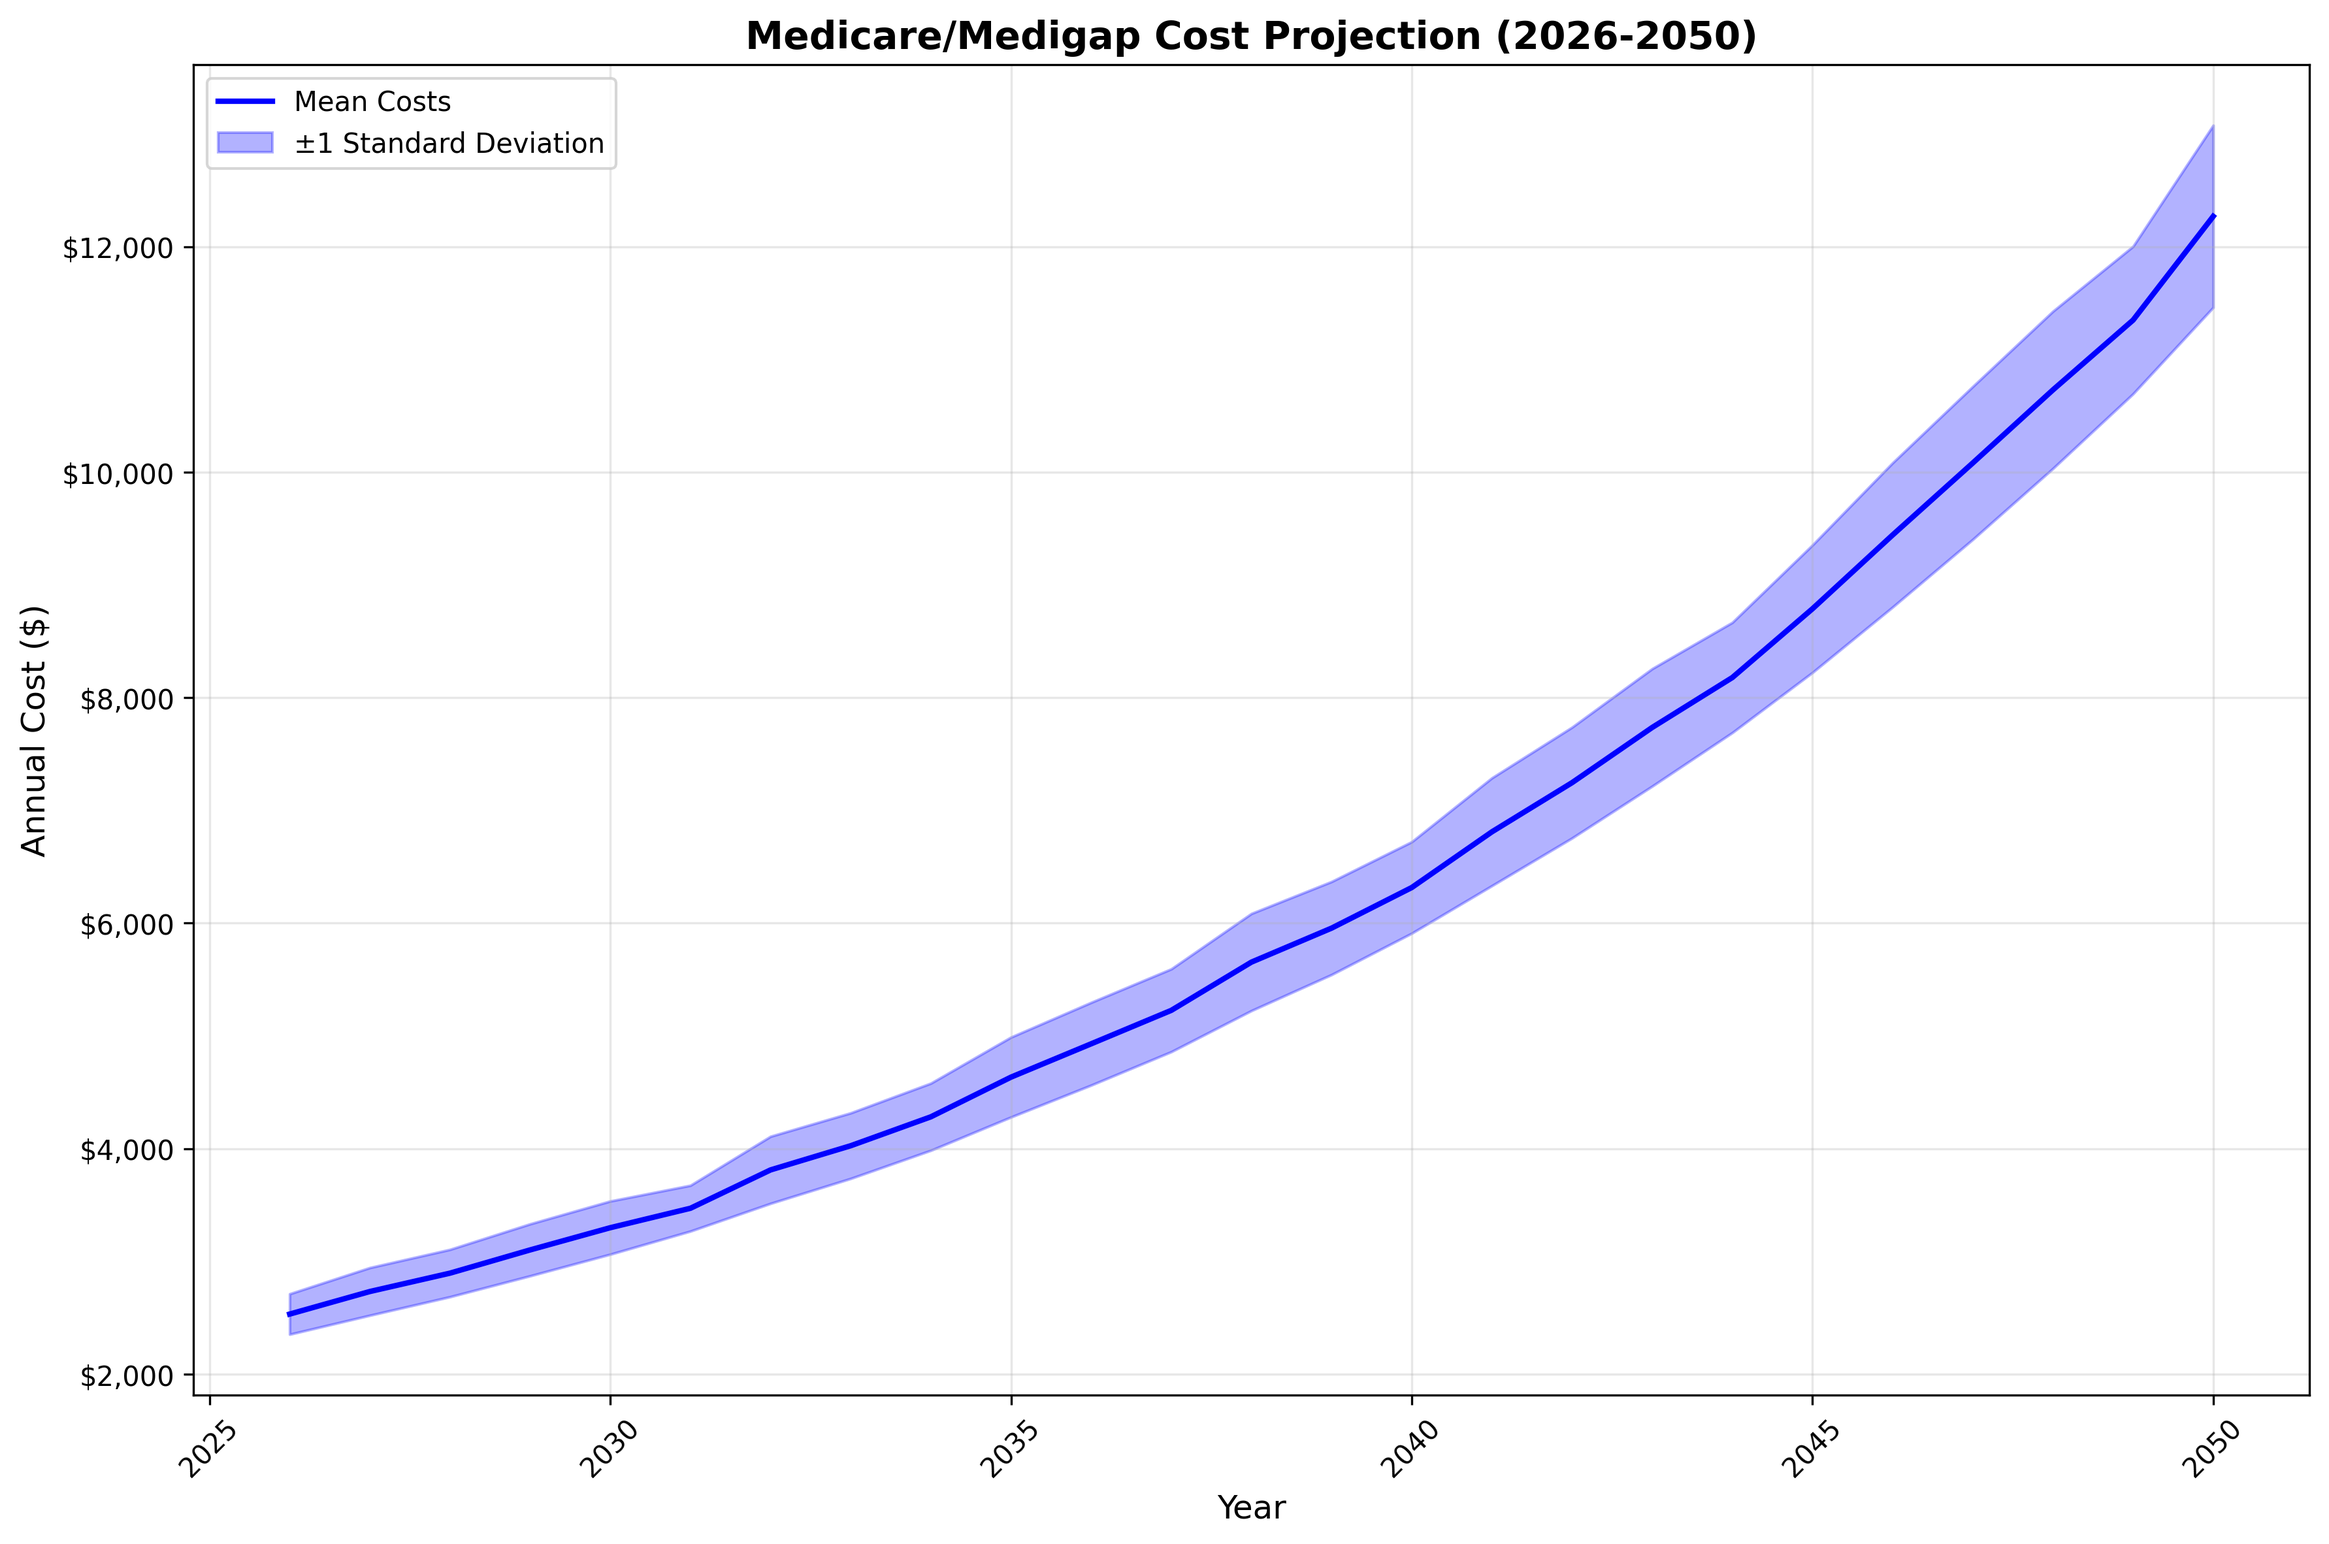
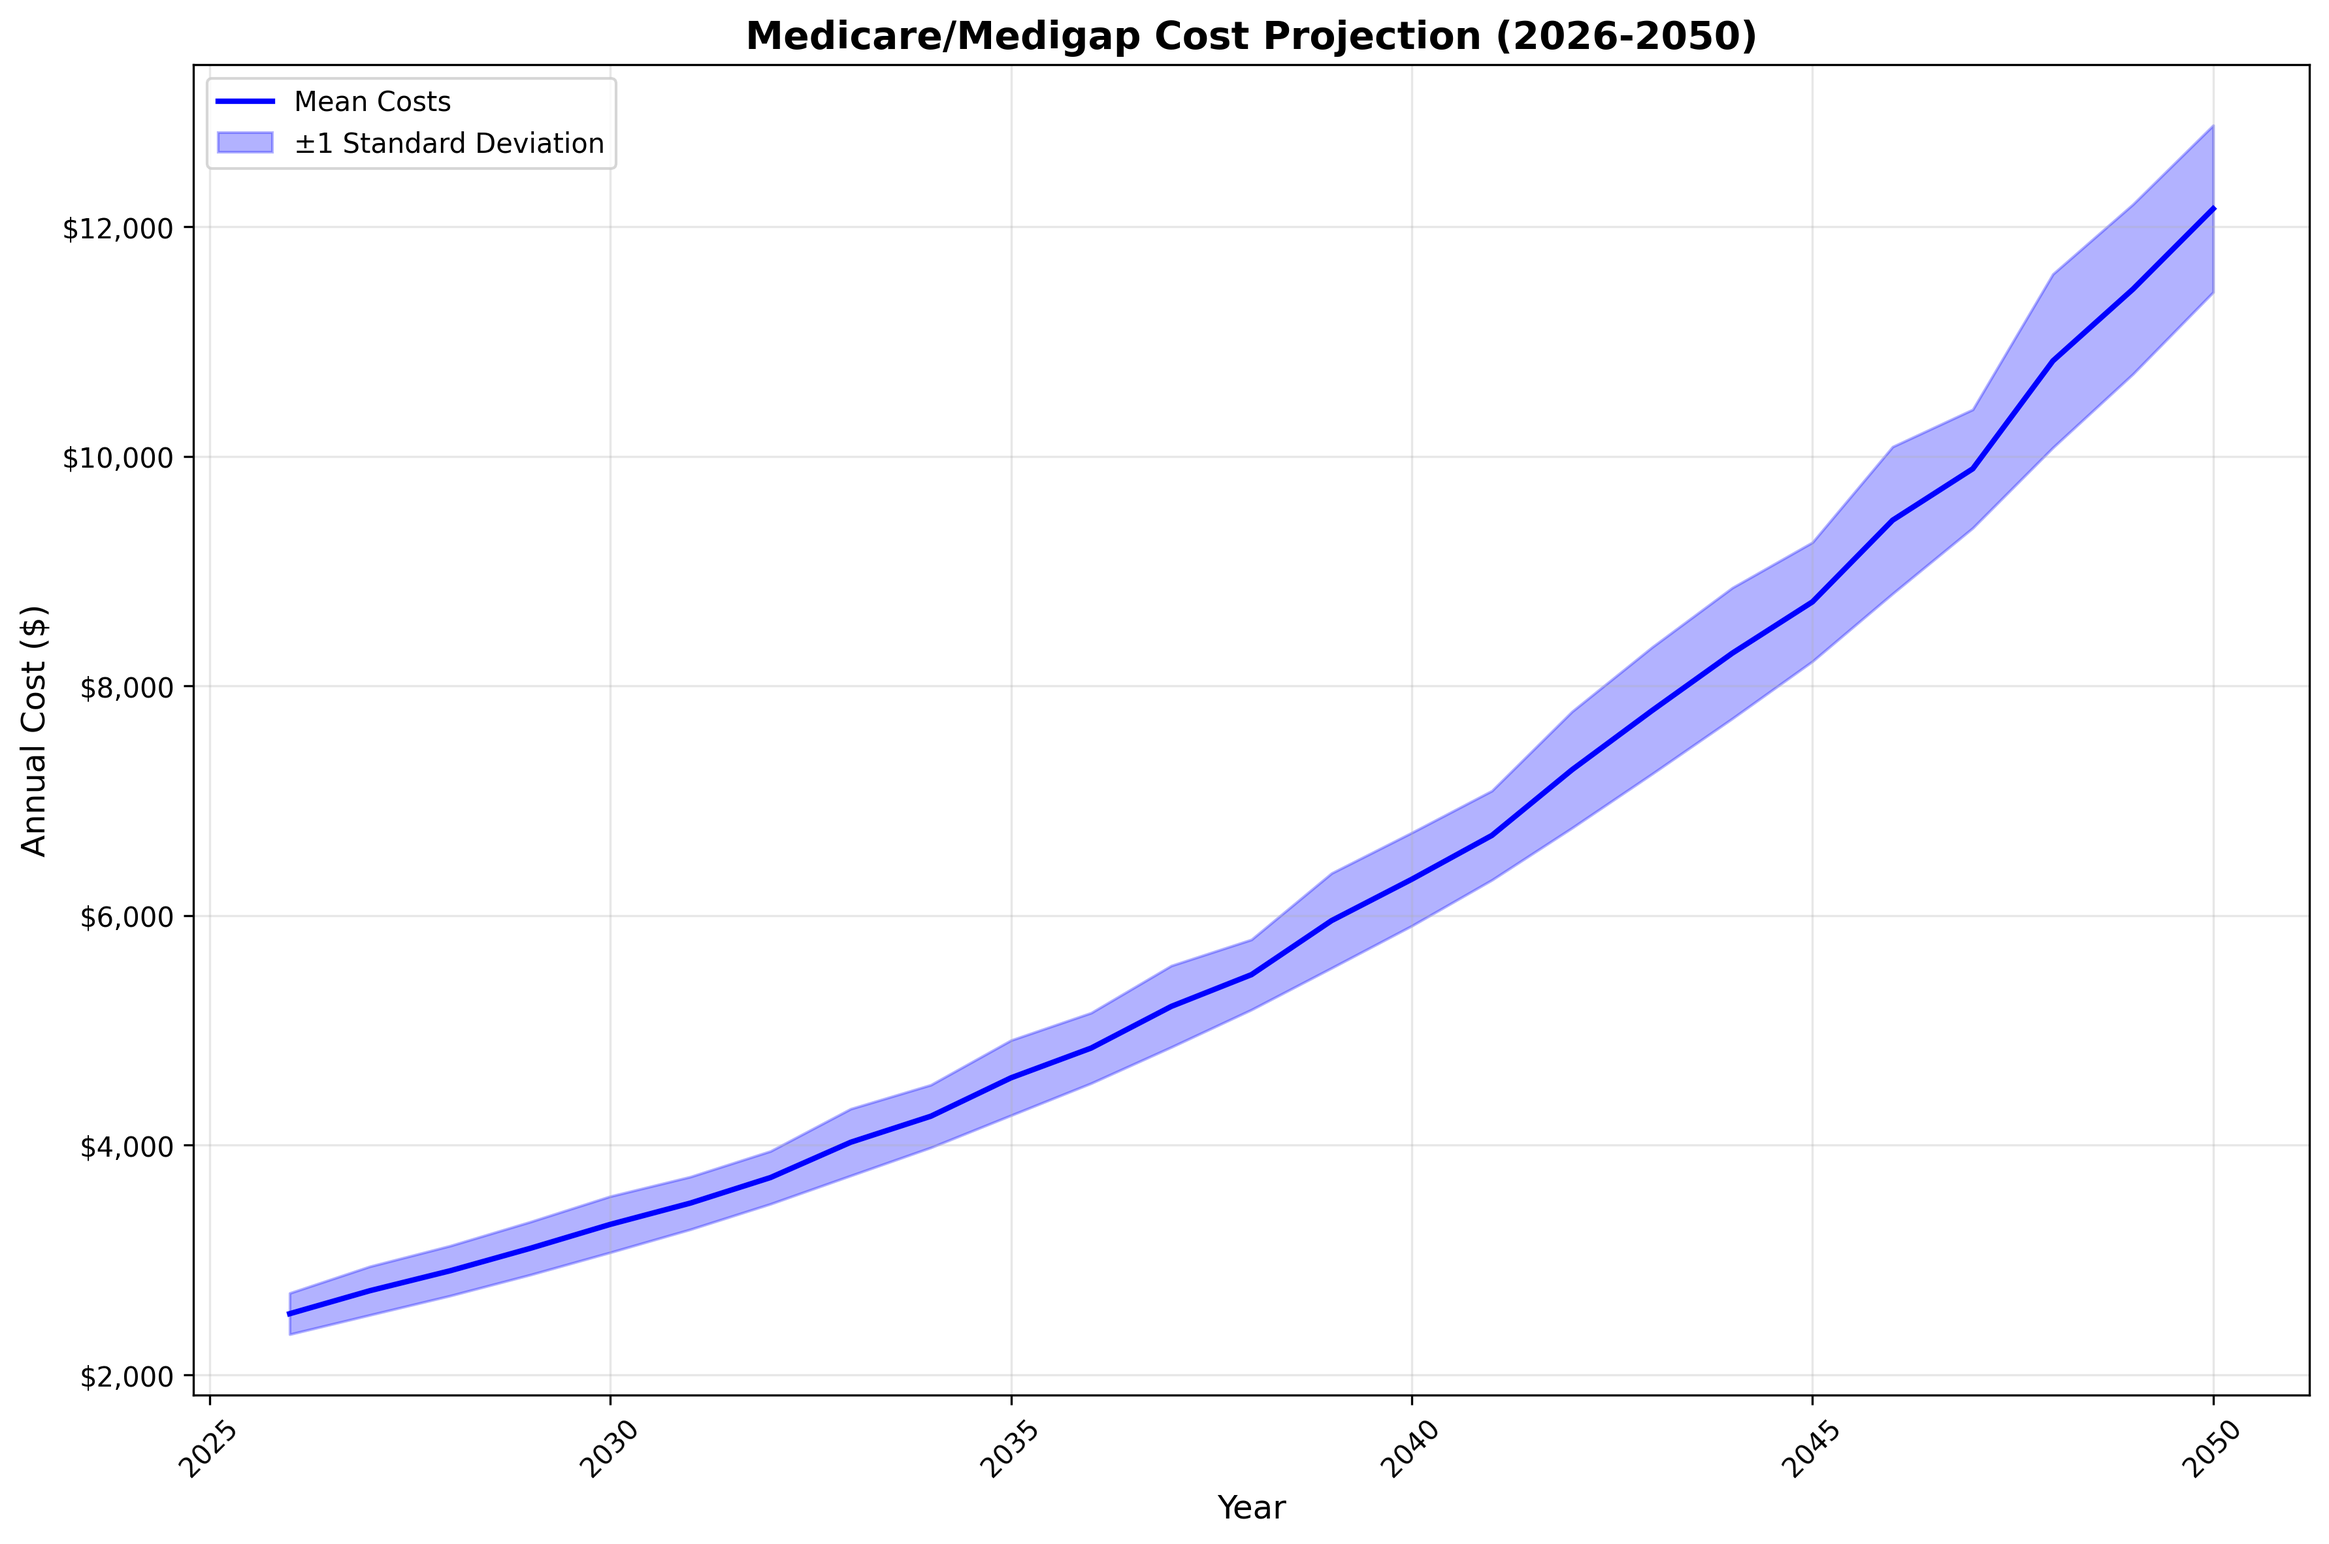
more ui tweaks

diff --git a/app.py b/app.py
@@ -2,6 +2,7 @@
 
 import sys
 import os
+from datetime import date
 import streamlit as st
 import plotly.graph_objects as go
 import plotly.express as px
@@ -123,11 +124,12 @@ def create_parameter_inputs() -> SimulationParameters:
         help="Number of years to simulate"
     )
     
+    current_year = date.today().year
     start_year = st.sidebar.number_input(
         "Start Year",
-        min_value=2020,
-        max_value=2030,
-        value=2026,
+        min_value=current_year - 10,
+        max_value=current_year + 10,
+        value=current_year,
         step=1,
         help="Starting year for simulation"
     )
@@ -135,8 +137,8 @@ def create_parameter_inputs() -> SimulationParameters:
     # Number of simulations
     num_simulations = st.sidebar.selectbox(
         "Number of Simulations",
-        options=[100, 500, 1000, 2000, 5000],
-        index=2,
+        options=[100, 500, 1000, 2500, 5000],
+        index=3,
         help="Number of Monte Carlo simulations to run"
     )
     
@@ -315,12 +317,12 @@ def display_simulation_results(results: Dict[str, Any]) -> None:
         results['statistics']['mean_costs'], 
         results['statistics']['std_costs']
     )
-    st.plotly_chart(cost_chart, width='stretch')
+    st.plotly_chart(cost_chart, use_container_width=True)
     
     # Lifetime cost histogram
     st.subheader("📊 Lifetime Cost Distribution")
     hist_chart = create_lifetime_cost_histogram(lifetime_costs)
-    st.plotly_chart(hist_chart, width='stretch')
+    st.plotly_chart(hist_chart, use_container_width=True)
     
     # Percentile analysis
     st.subheader("📊 Cost Percentiles")
@@ -357,7 +359,7 @@ def main():
     params, num_simulations = create_parameter_inputs()
     
     # Run simulation button
-    if st.sidebar.button("🚀 Run Simulation", type="primary"):
+    if st.sidebar.button("🚀 Run Full Simulation", type="primary"):
         with st.spinner(f"Running {num_simulations:,} Monte Carlo simulations..."):
             # Create simulation engine
             simulation = MonteCarloSimulation(params)

diff --git a/gui.py b/gui.py
@@ -2,6 +2,7 @@
 
 import sys
 import os
+from datetime import date
 import tkinter as tk
 from tkinter import ttk, filedialog
 import matplotlib.pyplot as plt
@@ -309,7 +310,7 @@ class MedicareSimulatorGUI:
         
         # Number of simulations
         ttk.Label(params_frame, text="Number of Simulations:").grid(row=0, column=0, sticky=tk.W, padx=5, pady=5)
-        self.num_simulations_var = tk.StringVar(value="1000")
+        self.num_simulations_var = tk.StringVar(value="2500")
         num_sim_entry = ttk.Entry(params_frame, textvariable=self.num_simulations_var, width=10)
         num_sim_entry.grid(row=0, column=1, sticky=tk.W, padx=5, pady=5)
         
@@ -345,7 +346,7 @@ class MedicareSimulatorGUI:
         
         # Start year
         ttk.Label(params_frame, text="Start Year:").grid(row=1, column=2, sticky=tk.W, padx=5, pady=5)
-        self.start_year_var = tk.StringVar(value="2026")
+        self.start_year_var = tk.StringVar(value=str(date.today().year))
         start_year_entry = ttk.Entry(params_frame, textvariable=self.start_year_var, width=10)
         start_year_entry.grid(row=1, column=3, sticky=tk.W, padx=5, pady=5)
         
@@ -496,7 +497,7 @@ class MedicareSimulatorGUI:
             
             # Run comparison
             simulation1 = PlanMonteCarloSimulation(plan1)
-            comparison = simulation1.compare_plans(plan2, 1000)
+            comparison = simulation1.compare_plans(plan2, 2500)
             
             # Display results
             results = f"Plan Comparison Results\n"

diff --git a/pages/1_Single_Plan_Simulator.py b/pages/1_Single_Plan_Simulator.py
@@ -2,6 +2,7 @@
 
 import sys
 import os
+from datetime import date
 import streamlit as st
 import plotly.graph_objects as go
 import plotly.express as px
@@ -44,7 +45,7 @@ def create_plan_selection() -> tuple:
         "Number of Simulations",
         min_value=100,
         max_value=10000,
-        value=1000,
+        value=2500,
         step=100,
         help="Number of Monte Carlo simulations to run"
     )
@@ -58,11 +59,12 @@ def create_plan_selection() -> tuple:
         help="Number of years to simulate"
     )
     
+    current_year = date.today().year
     start_year = st.sidebar.number_input(
         "Start Year",
-        min_value=2020,
-        max_value=2030,
-        value=2026,
+        min_value=current_year - 10,
+        max_value=current_year + 10,
+        value=current_year,
         step=1,
         help="Starting year for simulation"
     )
@@ -423,7 +425,11 @@ def main():
         create_cost_comparison_table(plan)
         
         # Run simulation button
-        if st.button("🚀 Run Monte Carlo Simulation", type="primary"):
+        if st.sidebar.button(
+            "🚀 Run Plan Simulatiion",
+            type="primary",
+            width="stretch",
+        ):
             run_simulation_and_display_results(plan, num_simulations)
     
     # Footer

diff --git a/pages/2_Plan_Comparison.py b/pages/2_Plan_Comparison.py
@@ -2,6 +2,7 @@
 
 import sys
 import os
+from datetime import date
 import streamlit as st
 import plotly.graph_objects as go
 import plotly.express as px
@@ -51,7 +52,7 @@ def create_plan_comparison_interface():
         "Number of Simulations",
         min_value=100,
         max_value=10000,
-        value=1000,
+        value=2500,
         step=100,
         help="Number of Monte Carlo simulations to run"
     )
@@ -65,11 +66,12 @@ def create_plan_comparison_interface():
         help="Number of years to simulate"
     )
     
+    current_year = date.today().year
     start_year = st.sidebar.number_input(
         "Start Year",
-        min_value=2020,
-        max_value=2030,
-        value=2026,
+        min_value=current_year - 10,
+        max_value=current_year + 10,
+        value=current_year,
         step=1,
         help="Starting year for simulation"
     )
@@ -348,7 +350,11 @@ def main():
     create_comparison_chart(plan1, plan2)
     
     # Run comparison simulation button
-    if st.button("🚀 Run Comparison Simulation", type="primary"):
+    if st.sidebar.button(
+        "🚀 Run Comparison Simulation",
+        type="primary",
+        width="stretch",
+    ):
         run_comparison_simulation(plan1, plan2, num_simulations)
     
     # Footer

diff --git a/src/medigap/simulation/plan_monte_carlo.py b/src/medigap/simulation/plan_monte_carlo.py
@@ -132,11 +132,11 @@ class PlanMonteCarloSimulation:
         
         return lifetime_costs
 
-    def run_comprehensive_simulation(self, num_simulations: int = 1000) -> Dict[str, Any]:
+    def run_comprehensive_simulation(self, num_simulations: int = 2500) -> Dict[str, Any]:
         """Run a comprehensive simulation with statistics.
         
         Args:
-            num_simulations: Number of simulations to run (default: 1000)
+            num_simulations: Number of simulations to run (default: 2500)
             
         Returns:
             Dictionary containing all simulation results and statistics
@@ -158,7 +158,7 @@ class PlanMonteCarloSimulation:
             'plan_summary': self.calculator.get_plan_summary()
         }
 
-    def compare_plans(self, other_plan: Plan, num_simulations: int = 1000) -> Dict[str, Any]:
+    def compare_plans(self, other_plan: Plan, num_simulations: int = 2500) -> Dict[str, Any]:
         """Compare this plan with another plan.
         
         Args:

diff --git a/src/medigap/models/plans.py b/src/medigap/models/plans.py
@@ -1,5 +1,6 @@
 """Specific Medicare plan implementations."""
 
+from datetime import date
 from .plan import Plan
 
 
@@ -14,7 +15,7 @@ class PlanG(Plan):
         self,
         percent_sick: float = 0.20,
         simulation_years: int = 25,
-        start_year: int = 2026
+        start_year: int = date.today().year
     ) -> None:
         """Initialize Plan G with default parameters.
         
@@ -52,7 +53,7 @@ class PlanHDG(Plan):
         self,
         percent_sick: float = 0.20,
         simulation_years: int = 25,
-        start_year: int = 2026
+        start_year: int = date.today().year
     ) -> None:
         """Initialize Plan HDG with specified parameters.
         
@@ -94,7 +95,7 @@ class PlanN(Plan):
         self,
         percent_sick: float = 0.20,
         simulation_years: int = 25,
-        start_year: int = 2026
+        start_year: int = date.today().year
     ) -> None:
         """Initialize Plan N with specified parameters.
         

diff --git a/src/medigap/models/plan.py b/src/medigap/models/plan.py
@@ -1,5 +1,6 @@
 """Base Medicare plan class for different plan types."""
 
+from datetime import date
 from abc import ABC, abstractmethod
 from typing import Optional
 
@@ -24,7 +25,7 @@ class Plan(ABC):
         part_b_deductible_growth_rate: float = 0.06,
         percent_sick: float = 0.20,
         simulation_years: int = 25,
-        start_year: int = 2026,
+        start_year: int = date.today().year,
         # Specialist visit parameters (optional, defaults to None for plans without specialist visits)
         specialist_visits_per_year: Optional[int] = None,
         specialist_copay_2026: Optional[float] = None,

diff --git a/src/medigap/simulation/monte_carlo.py b/src/medigap/simulation/monte_carlo.py
@@ -132,11 +132,11 @@ class MonteCarloSimulation:
         
         return lifetime_costs
 
-    def run_comprehensive_simulation(self, num_simulations: int = 1000) -> Dict[str, Any]:
+    def run_comprehensive_simulation(self, num_simulations: int = 2500) -> Dict[str, Any]:
         """Run a comprehensive simulation with statistics.
         
         Args:
-            num_simulations: Number of simulations to run (default: 1000)
+            num_simulations: Number of simulations to run (default: 2500)
             
         Returns:
             Dictionary containing all simulation results and statistics

diff --git a/src/medigap/models/simulation_parameters.py b/src/medigap/models/simulation_parameters.py
@@ -1,5 +1,6 @@
 """Simulation parameters configuration class."""
 
+from datetime import date
 from typing import Optional
 
 
@@ -22,7 +23,7 @@ class SimulationParameters:
         part_b_deductible_growth_rate: float = 0.06,
         percent_sick: float = 0.20,
         simulation_years: int = 25,
-        start_year: int = 2026
+        start_year: int = date.today().year
     ) -> None:
         """Initialize simulation parameters with validation.
         

diff --git a/main.py b/main.py
@@ -38,7 +38,7 @@ def main() -> None:
     
     # Run comprehensive simulation
     print("Running Monte Carlo simulation...")
-    num_simulations = 1000
+    num_simulations = 2500
     results = simulation.run_comprehensive_simulation(num_simulations)
     
     # Display summary statistics

diff --git a/README.md b/README.md
@@ -120,7 +120,7 @@ uv run python main.py
 
 The CLI will:
 
-- Run 1,000 Monte Carlo simulations
+- Run 2,500 Monte Carlo simulations
 - Display comprehensive cost statistics table with minimum, maximum, and median values
 - Show detailed year-by-year cost breakdown with all premium and deductible components
 - Display year-by-year cost projections with confidence intervals
@@ -146,7 +146,7 @@ params = SimulationParameters(
 
 # Run simulation
 simulation = MonteCarloSimulation(params)
-results = simulation.run_comprehensive_simulation(1000)
+results = simulation.run_comprehensive_simulation(2500)
 ```
 
 ### Programmatic Usage
@@ -162,7 +162,7 @@ simulation = MonteCarloSimulation(params)
 visualization = Visualization()
 
 # Run simulation
-results = simulation.run_comprehensive_simulation(1000)
+results = simulation.run_comprehensive_simulation(2500)
 
 # Create custom visualizations
 years = list(range(2026, 2051))
@@ -191,7 +191,9 @@ The simulation uses the following default parameters:
 | Part B Deductible (2026) | $210.00/year | Base Part B deductible |
 | Part B Deductible Growth Rate | 6.0% | Annual Part B deductible growth |
 | Percent Sick | 20.0% | Probability of full utilization |
-| Simulation Years | 25 | Years to simulate (2026-2050) |
+| Number of Simulations | 2,500 | Monte Carlo runs |
+| Simulation Years | 25 | Number of years to simulate |
+| Start Year | Current calendar year | First year of the simulation |
 
 ## Simulation Logic
 
@@ -303,10 +305,10 @@ Simulation Parameters:
   Part B Deductible Growth Rate: 6.0%
   Percent Sick: 20.0%
   Simulation Years: 25
-  Start Year: 2026
+  Start Year: <current year>
 
 Running Monte Carlo simulation...
-Simulation completed with 1,000 runs
+Simulation completed with 2,500 runs
 
 Cost Statistics Summary:
 ============================================================
